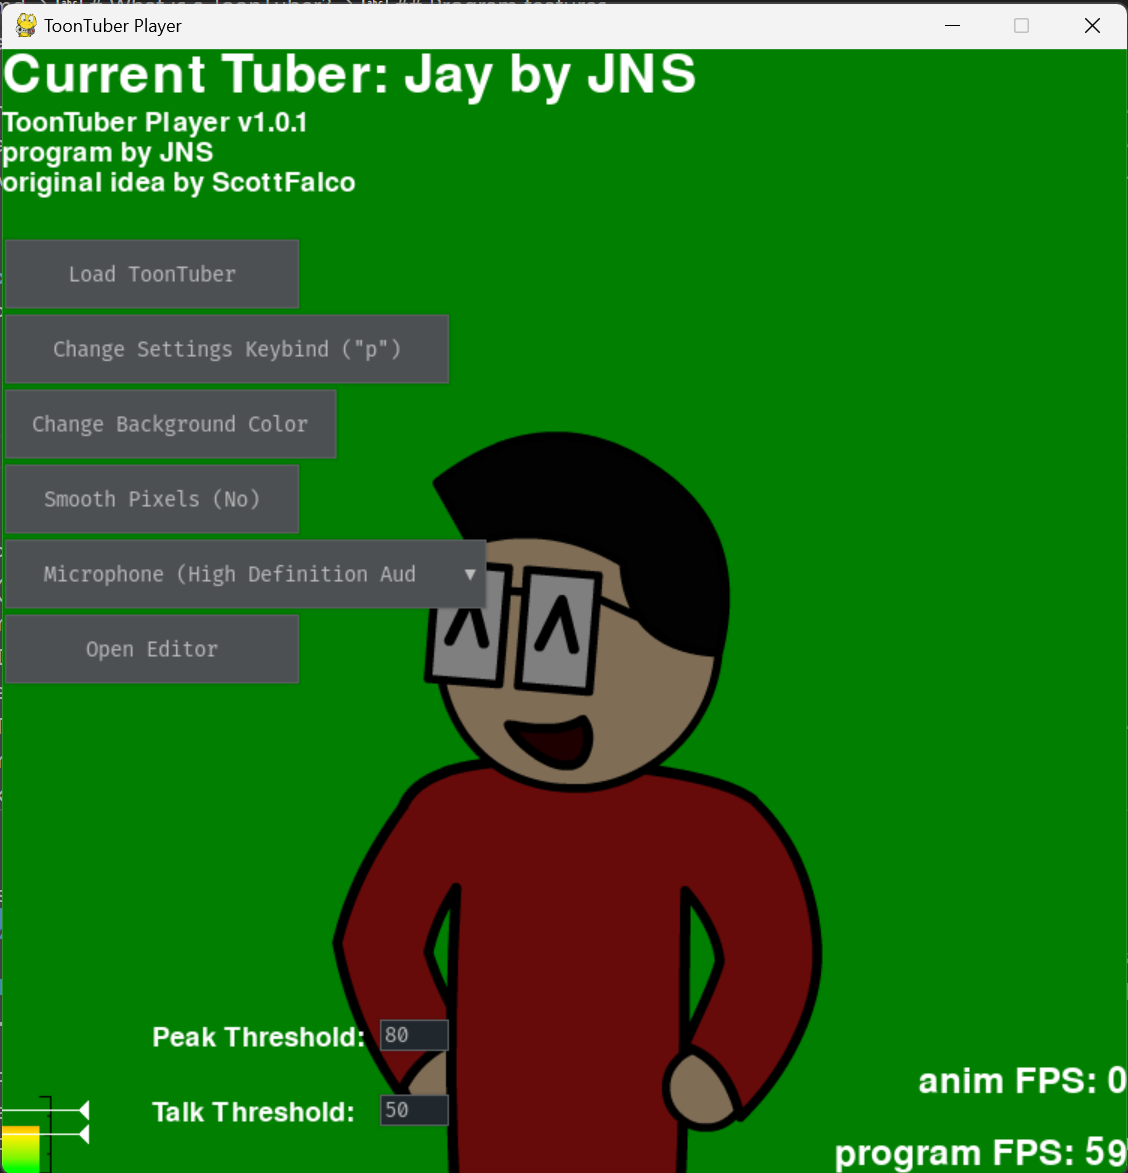
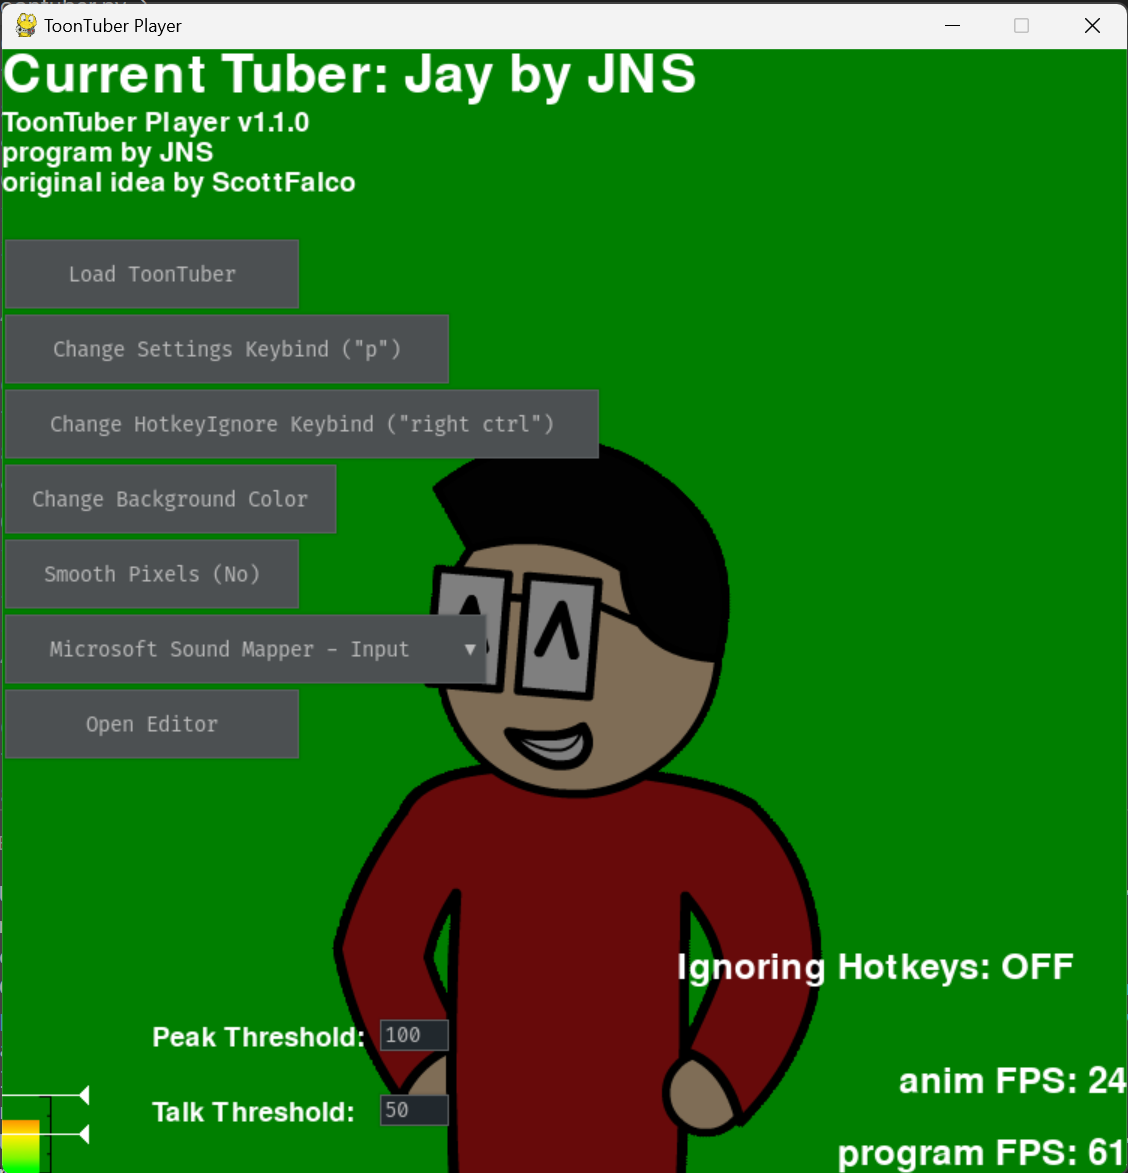
updated screenshot

diff --git a/toontuber.py b/toontuber.py
@@ -22,7 +22,7 @@ import traceback
 
 debugMode = False
 
-version = "v1.0.1"
+version = "v1.1.0"
 
 peakThreshold = 90
 talkThreshold = 50
